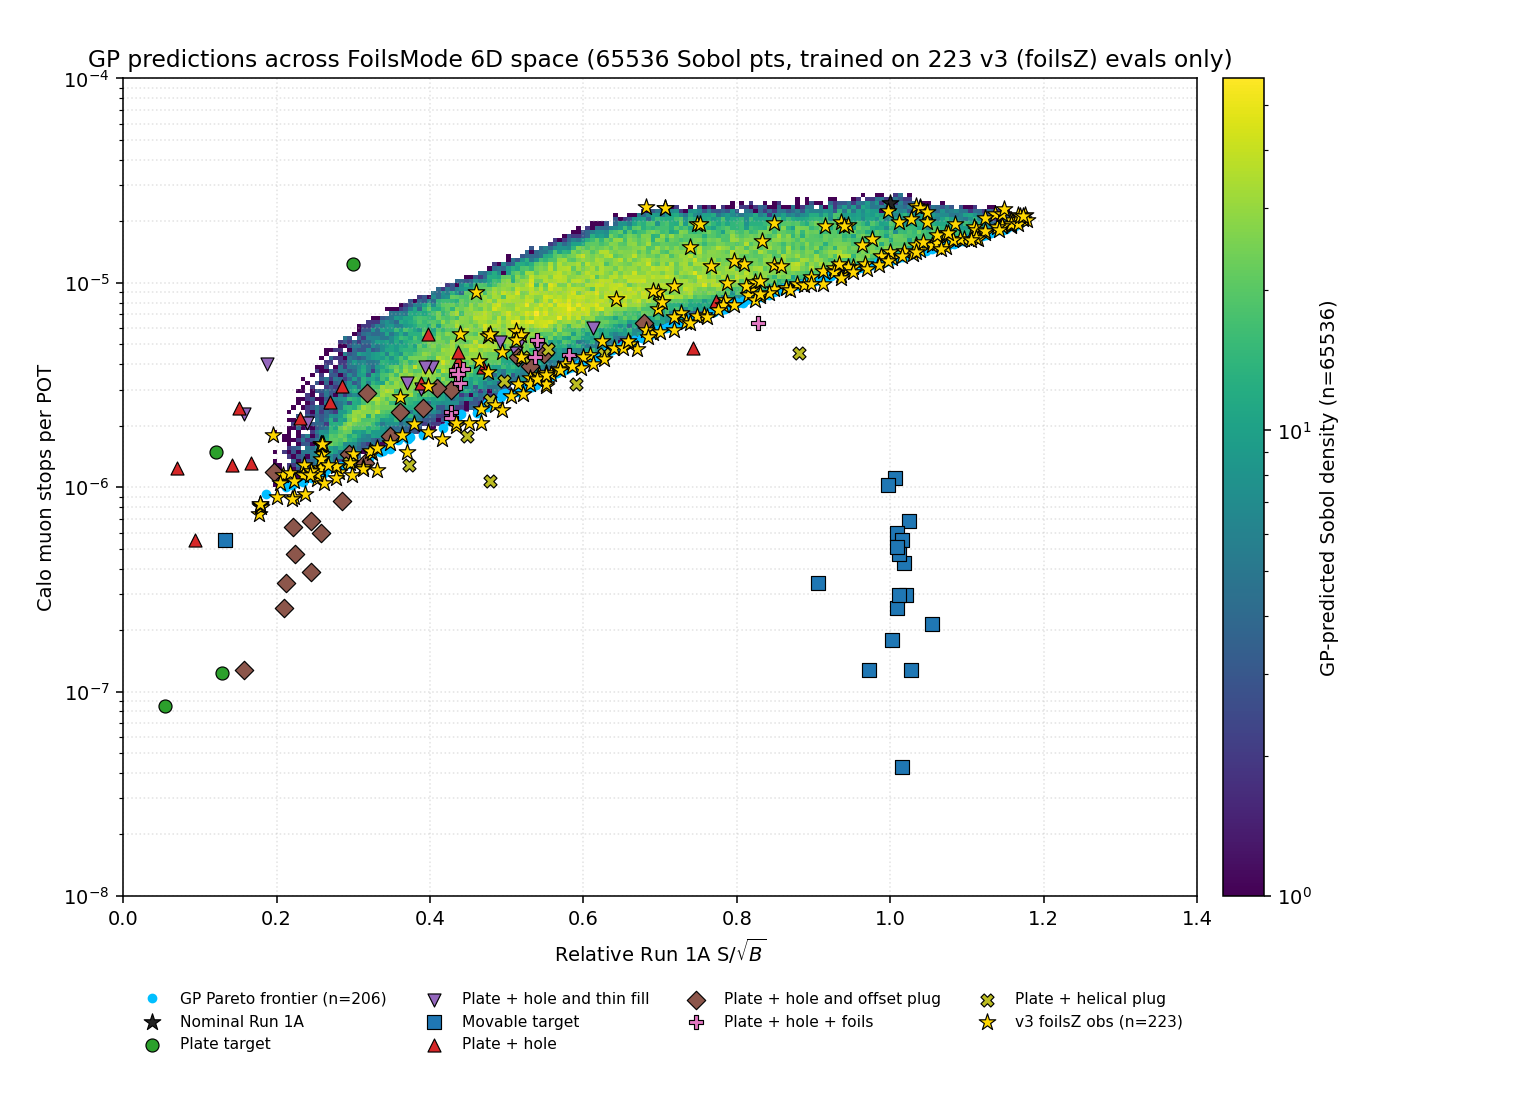
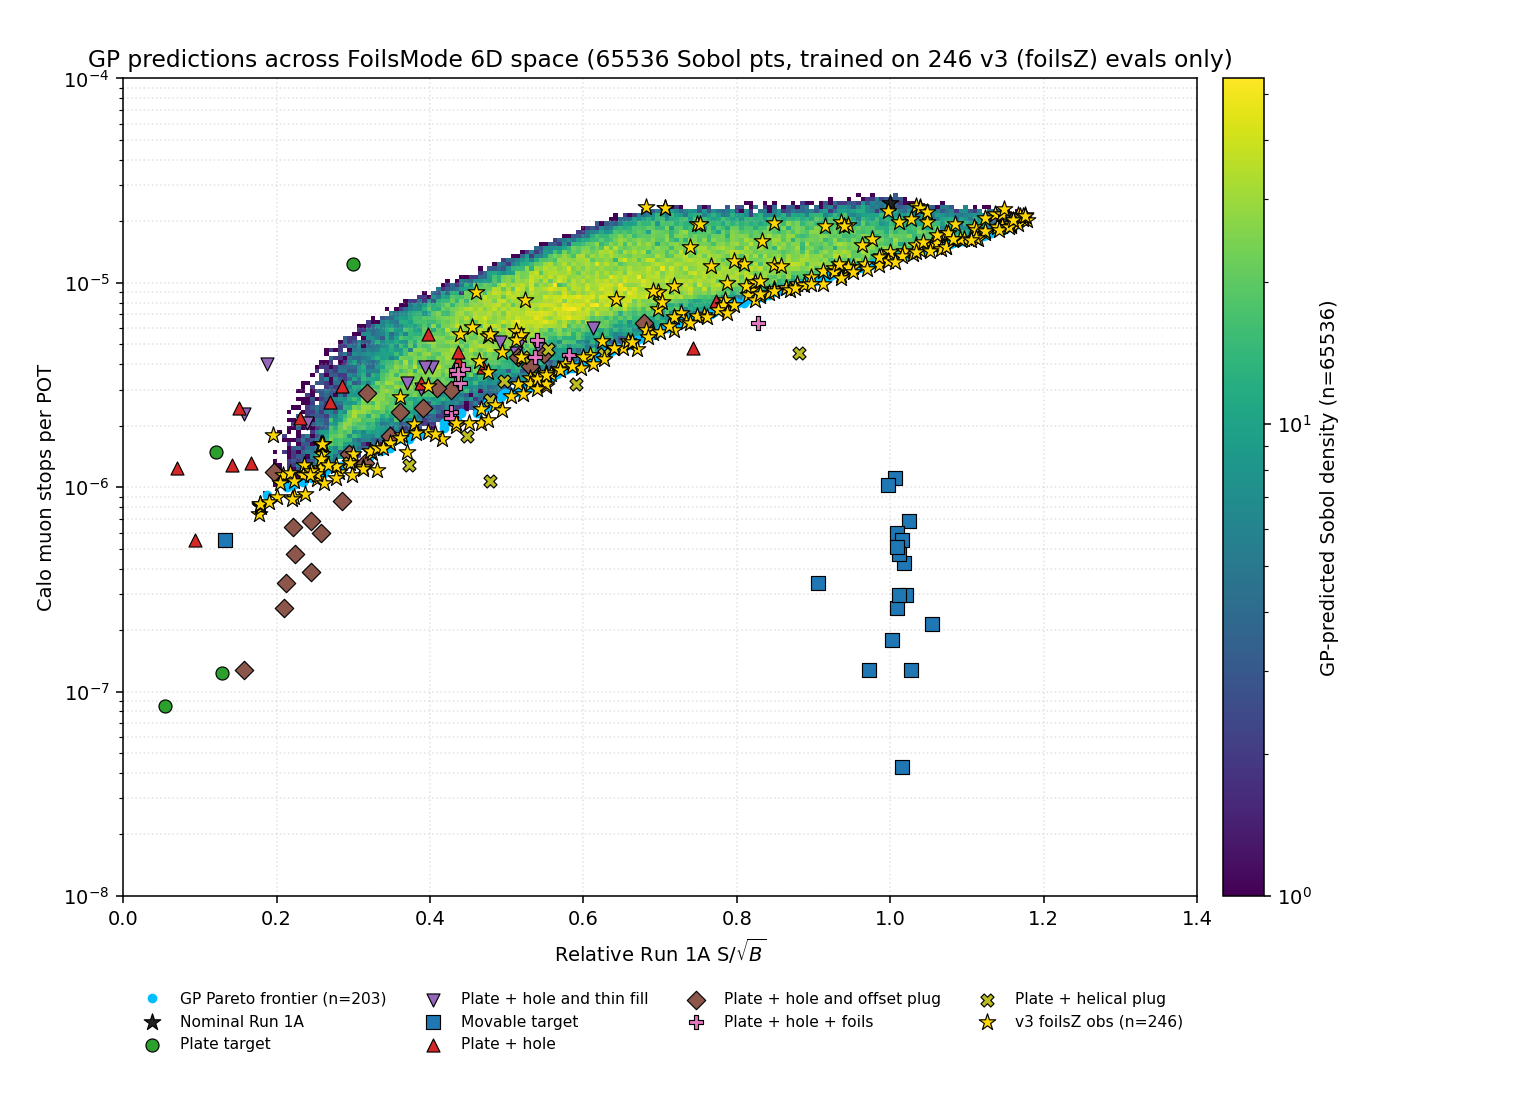
docs: refresh foils deck (foilsf06 complete, n=247)
- new top-3 #2: foilsf06R04_04 sob=3.88 @ calo=2.13e-5
- 4 campaigns (foilsZ02/foilsf02/foilsf03/foilsf06) saturate at sob≈3.88-3.89
- regenerated GP cloud over full v3 leaderboard (247 evals)

diff --git a/docs/foils_talk.md b/docs/foils_talk.md
@@ -67,7 +67,7 @@ them in parallel on the grid, repeat.
 </div>
 <div>
 
-GP density over the 6-D space, **223 evals**; **gold = exploration picks**.
+GP density over the 6-D space, **247 evals**; **gold = exploration picks**.
 
 - Exploration maps the **whole front** in one campaign.
 - The **off-axis big-hole corner** (far left, low `S/√B`): a thin ring at large
@@ -82,7 +82,7 @@ GP density over the 6-D space, **223 evals**; **gold = exploration picks**.
 
 ## The result: best S/√B at a calo budget
 
-Just *"how much signal if you cap the calo background at B?"* (**223 evals**):
+Just *"how much signal if you cap the calo background at B?"* (**247 evals**):
 
 <style scoped>
   .geom-tbl { font-size: 15px; border-collapse: collapse; margin-top: -4px; }
@@ -176,14 +176,14 @@ Just *"how much signal if you cap the calo background at B?"* (**223 evals**):
   <td>114.6</td><td>31.8</td><td>0.136</td>
 </tr>
 <tr>
-  <td>2</td><td class="name">foilsf02R00_03</td><td>3.880</td><td>2.16e-5</td>
-  <td>118.5</td><td>0.0</td><td>0.050</td>
-  <td>119.5</td><td>19.5</td><td>0.109</td>
+  <td>2</td><td class="name">foilsf06R04_04</td><td>3.880</td><td>2.13e-5</td>
+  <td>102.0</td><td>15.3</td><td>0.064</td>
+  <td>107.3</td><td>34.2</td><td>0.141</td>
 </tr>
 <tr>
-  <td>3</td><td class="name">foilsZ02R07_02</td><td>3.870</td><td>2.05e-5</td>
-  <td>136.9</td><td>42.8</td><td>0.050</td>
-  <td>115.8</td><td>48.3</td><td>0.119</td>
+  <td>3</td><td class="name">foilsf02R00_03</td><td>3.880</td><td>2.16e-5</td>
+  <td>118.5</td><td>0.0</td><td>0.050</td>
+  <td>119.5</td><td>19.5</td><td>0.109</td>
 </tr>
 </table>
 
@@ -193,7 +193,7 @@ Just *"how much signal if you cap the calo background at B?"* (**223 evals**):
 
 - **All three converged to the same geometry family**: rOut ≈ 115–137 mm, **upstream hT pinned at the lower bound (0.050 mm)** + **downstream slightly thicker** (0.11–0.14 mm), small upstream hole + small downstream hole.
 - S/√B values within **0.5%** — the front is **flat at the top**; any of the three is operationally equivalent.
-- Picked across **3 separate campaigns** (foilsZ02 / foilsf02 / foilsf03), independent restarts — strong evidence the optimum is real, not a single-run artefact.
+- Picked across **3 separate campaigns** (foilsf02 / foilsf03 / foilsf06), independent restarts — strong evidence the optimum is real, not a single-run artefact.
 
 </div>
 
@@ -228,6 +228,6 @@ foilsZ02 alone
 
 ## Status & next steps
 
-- **Campaign so far:** 223 evals across 8+ rounds of qLogNEHVI (q = 10).
+- **Campaign so far:** 247 evals across 10+ rounds of qLogNEHVI (q = 10).
   GP is under-identified on the small training set (length_scale rails to
   1000 mm), but the picker keeps advancing the front.